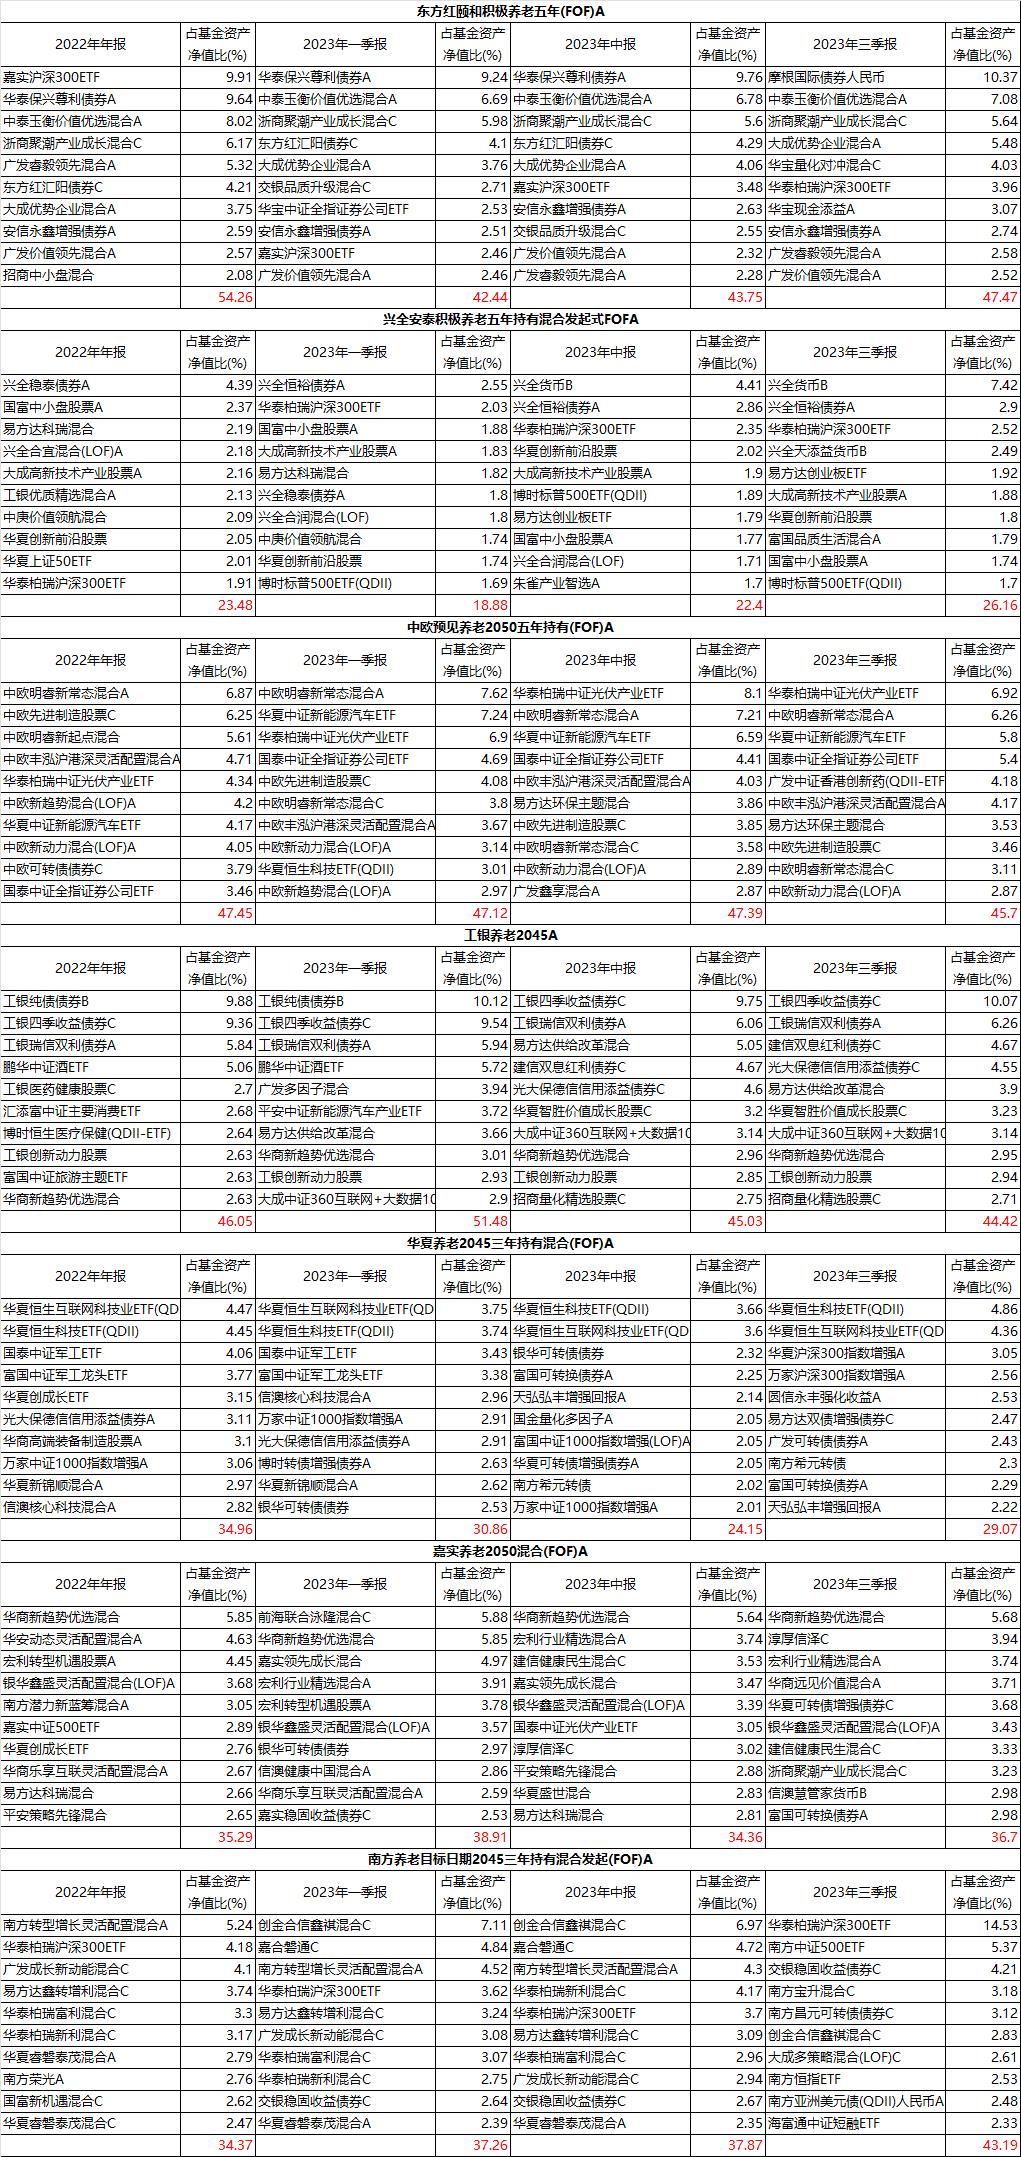
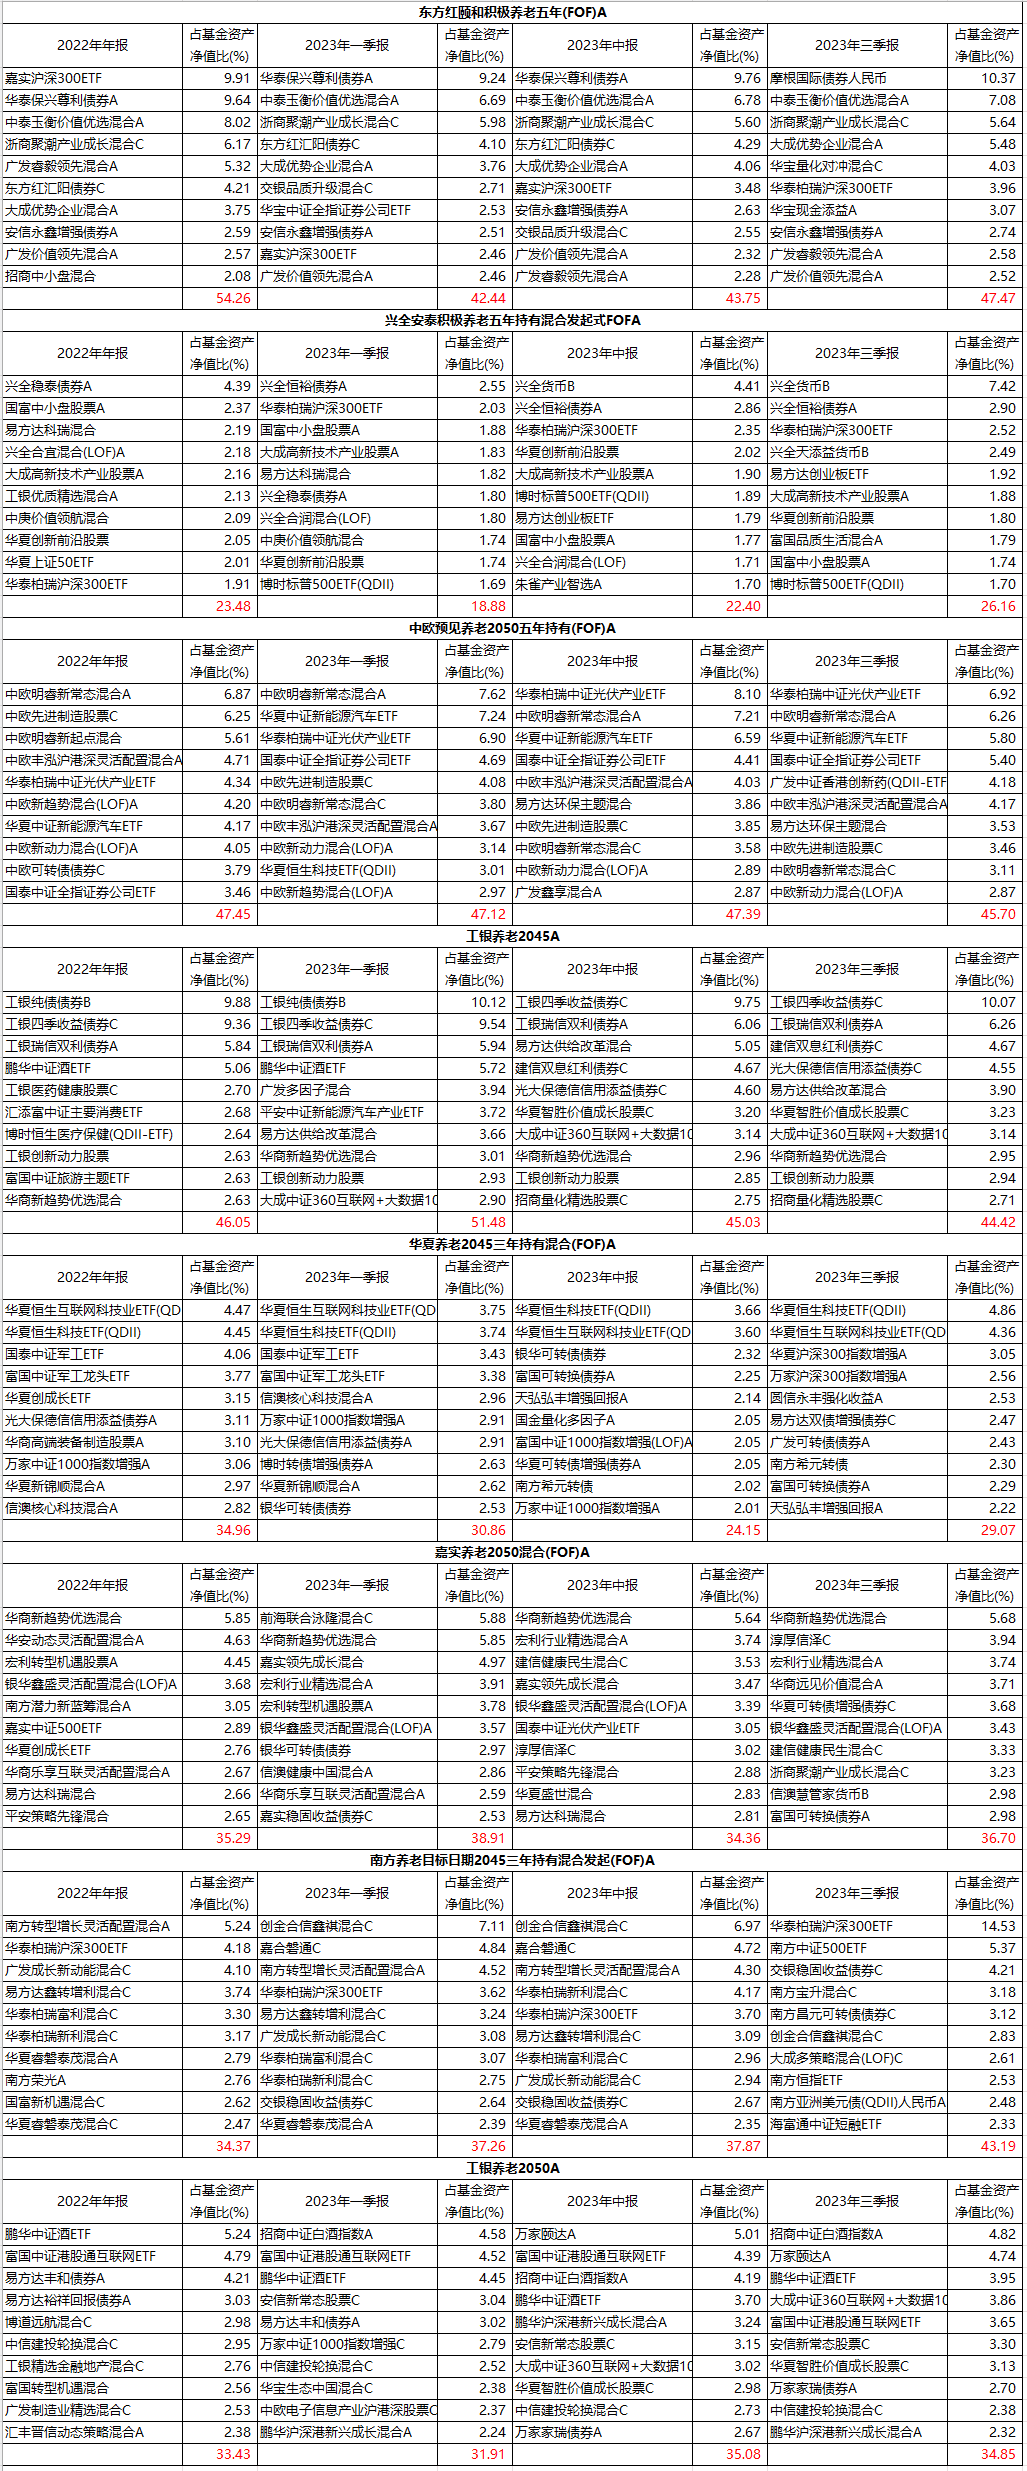
[post]: update post pension-fund

diff --git a/_posts/2023-11-09-pension-fund.md b/_posts/2023-11-09-pension-fund.md
@@ -187,9 +187,13 @@ FOF 基金公司规模统计：
 
 !["主要基金对比图"](/assets/img/post/pension-fund-47.png "主要基金对比图")
 
-从下面持仓基金的近一年明细可以看到各基金的持仓集中度，偏好基金类型，换手情况等。
+从下面持仓基金的近一年明细可以看到各基金的持仓集中度，偏好基金类型，换手情况等。其中兴全积极持仓最分散，前十总仓位不到 30%，而且这两个季度持有货币基金较多，很好地控制了回撤，中欧2050倾向于光伏的新能源，南方2045对指数 ETF 持仓较重，华夏2045的持仓更倾向于科技，而且如上图他对股票的仓位也更重。各养老基金的持仓都会更倾向于买自家的基金产品，这也是给本基金公司带了一个很稳定的增量。
 
 !["主要基金近一年持有基金Top 10"](/assets/img/post/pension-fund-48.png "主要基金近一年持有基金Top 10")
+
+### 个人结论
+
+整体比较，今年我会全部买入兴全积极。选基金感觉比选股还要难，信息量少，而且很依赖基金经理，
 
 ## 其他基金推荐
 
@@ -262,6 +266,11 @@ FOF 基金公司规模统计：
 >
 > 重仓自家产品其实倒也没什么问题 ，毕竟它成立以来的收益率 、最大回撤 、今年以来的收益率都仅次于嘉实养老2050。
 
+### 雪球：望京博格
+
+[望京博格](https://xueqiu.com/u/4579887327)是集思录的副总裁郑志勇，他在[帖子](https://xueqiu.com/4579887327/261586766)中说买了两个中欧基金因为“股票仓位都是最高”的，可能他指的是在目标日期 2050 和目标日期 2035 的基金里这两个基金的股票持仓最高？其实华夏2045 的股票持仓更高，这个买入理由不是很理解。
+
+> 2022年养老金12000元额度买的中欧预见养老2050，2023年养老金12000元额度买的中欧养老2035，因为这两个养老Y份额股票仓位都是最高的。
 
 ## 数据获取
 
@@ -277,7 +286,11 @@ Choice 金融终端操作：
 
 入口：基金 -> 多维数据 -> 基金比较
 
+### 基金持仓基金数据下载
 
+入口：基金 -> 专题统计 -> FOF专题 -> FOF持有基金明细
+
+筛选目标基金和报告期范围。
 
 ## 基金招募说明摘要
 
